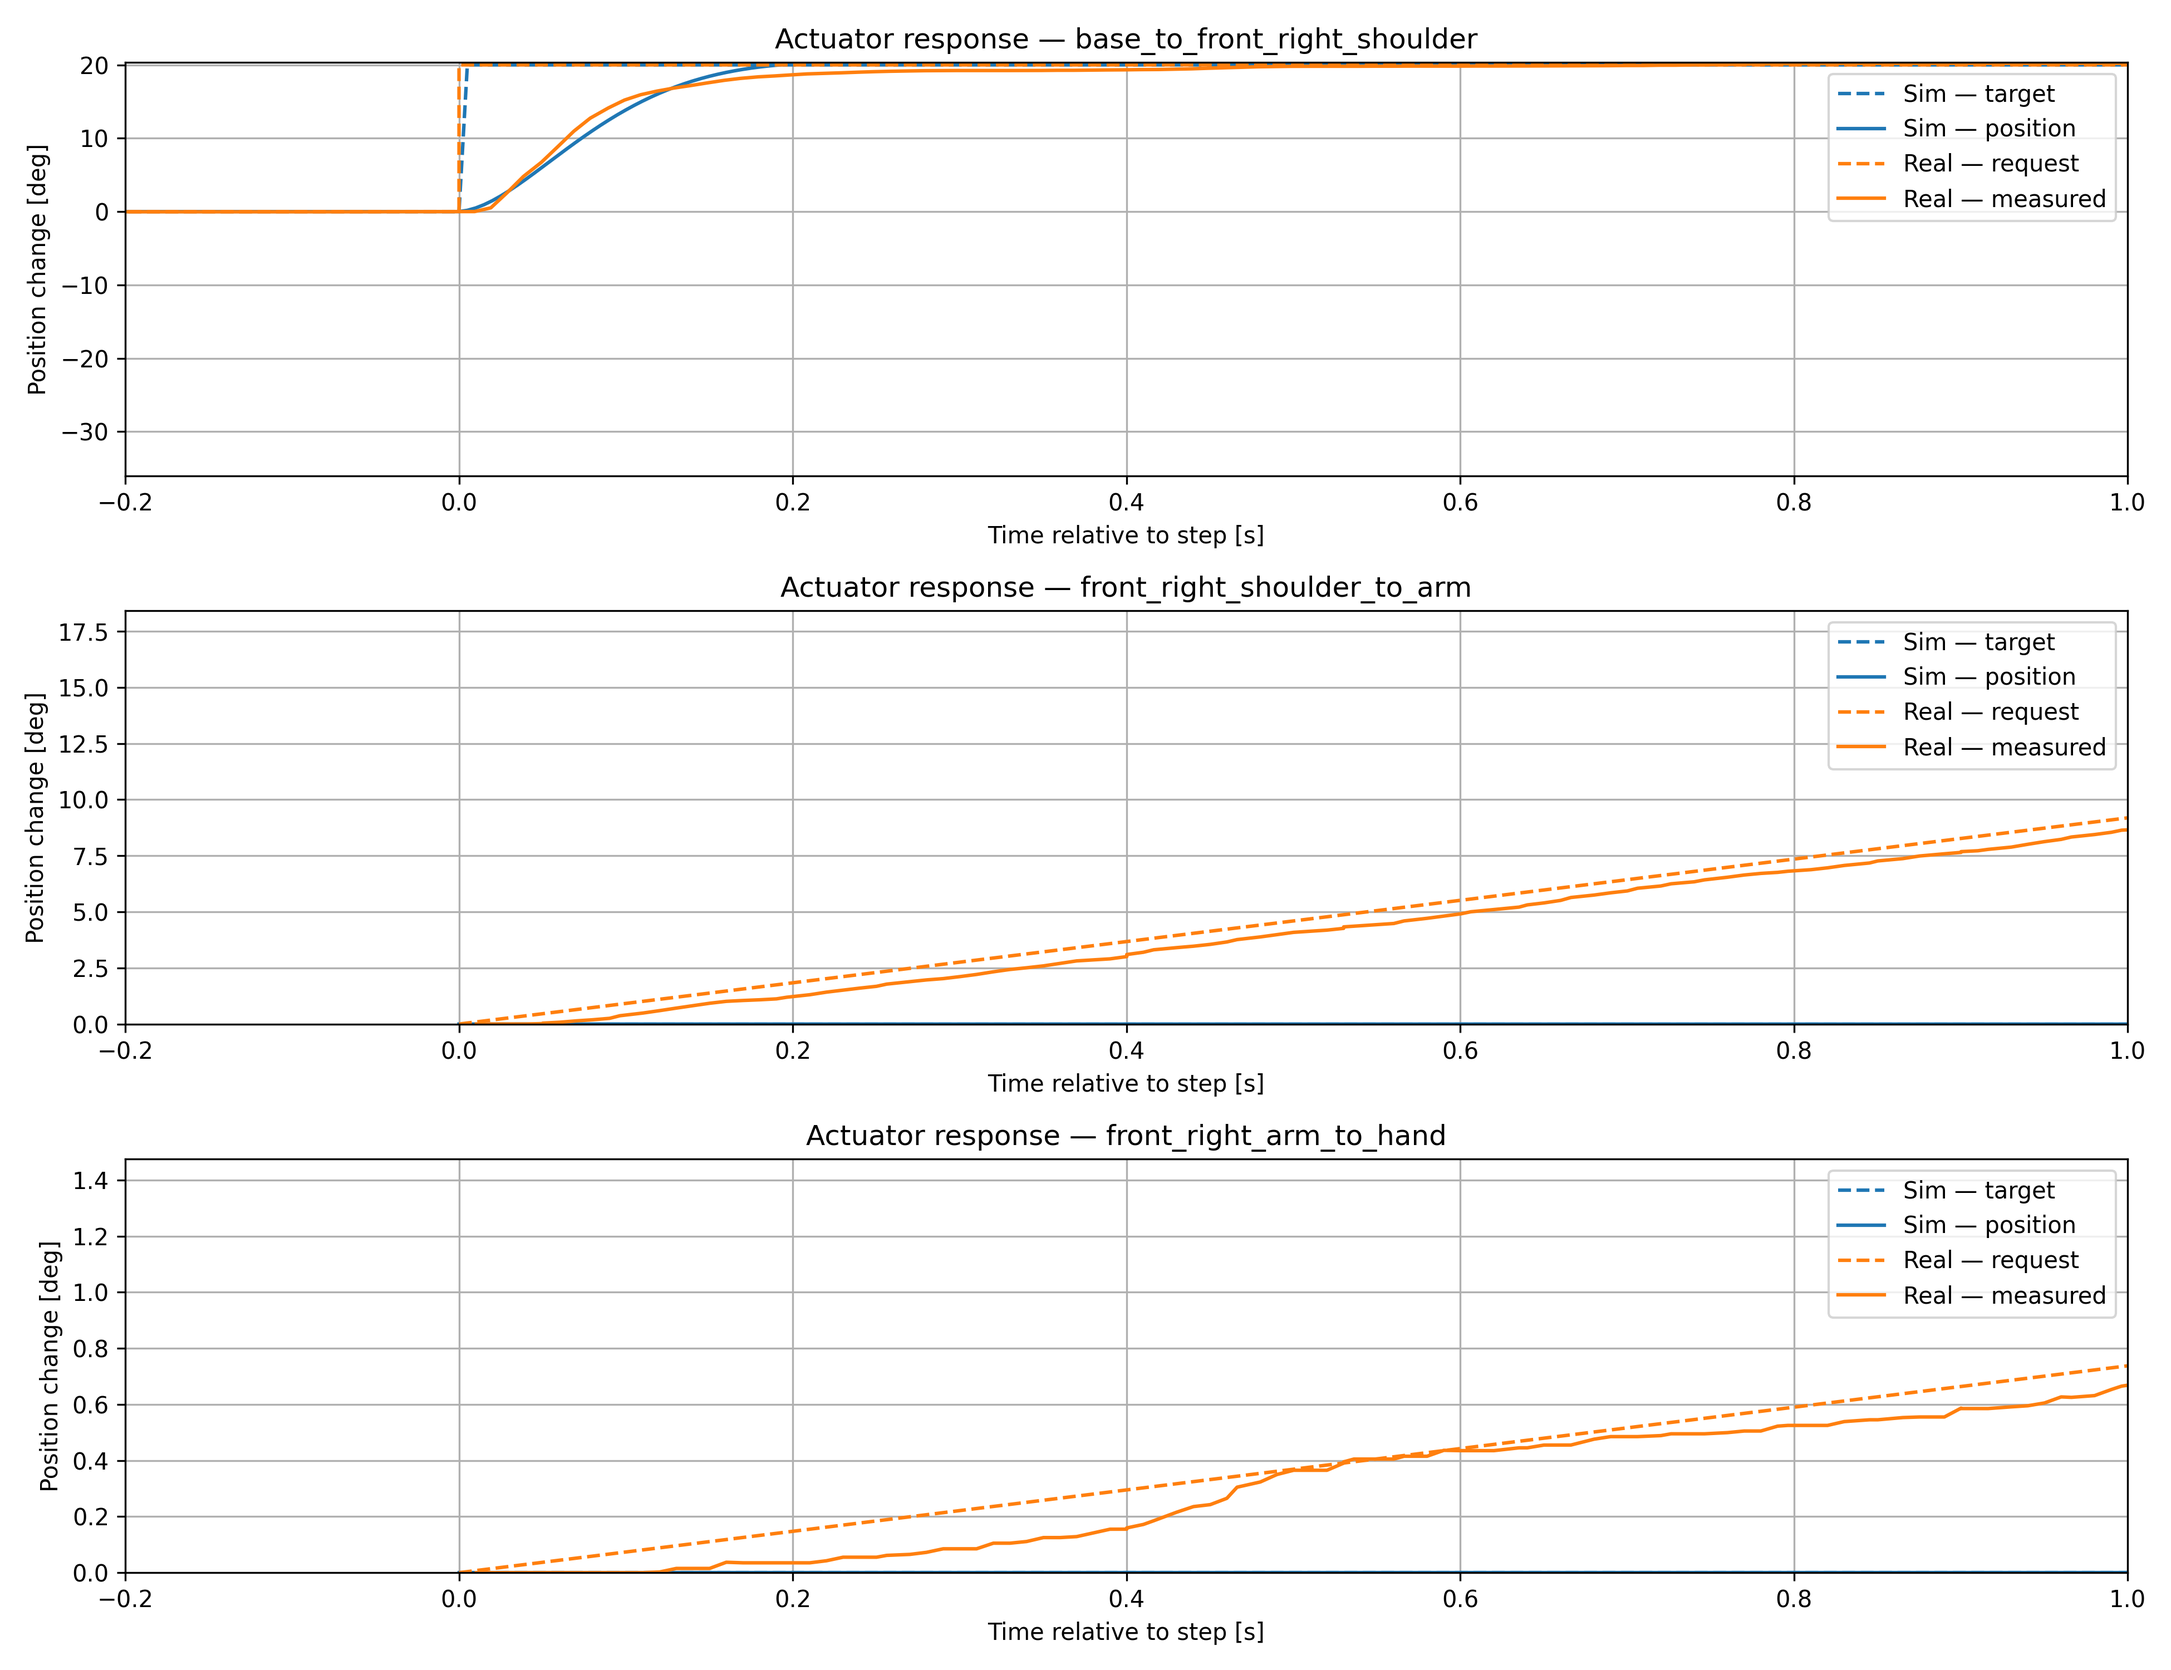
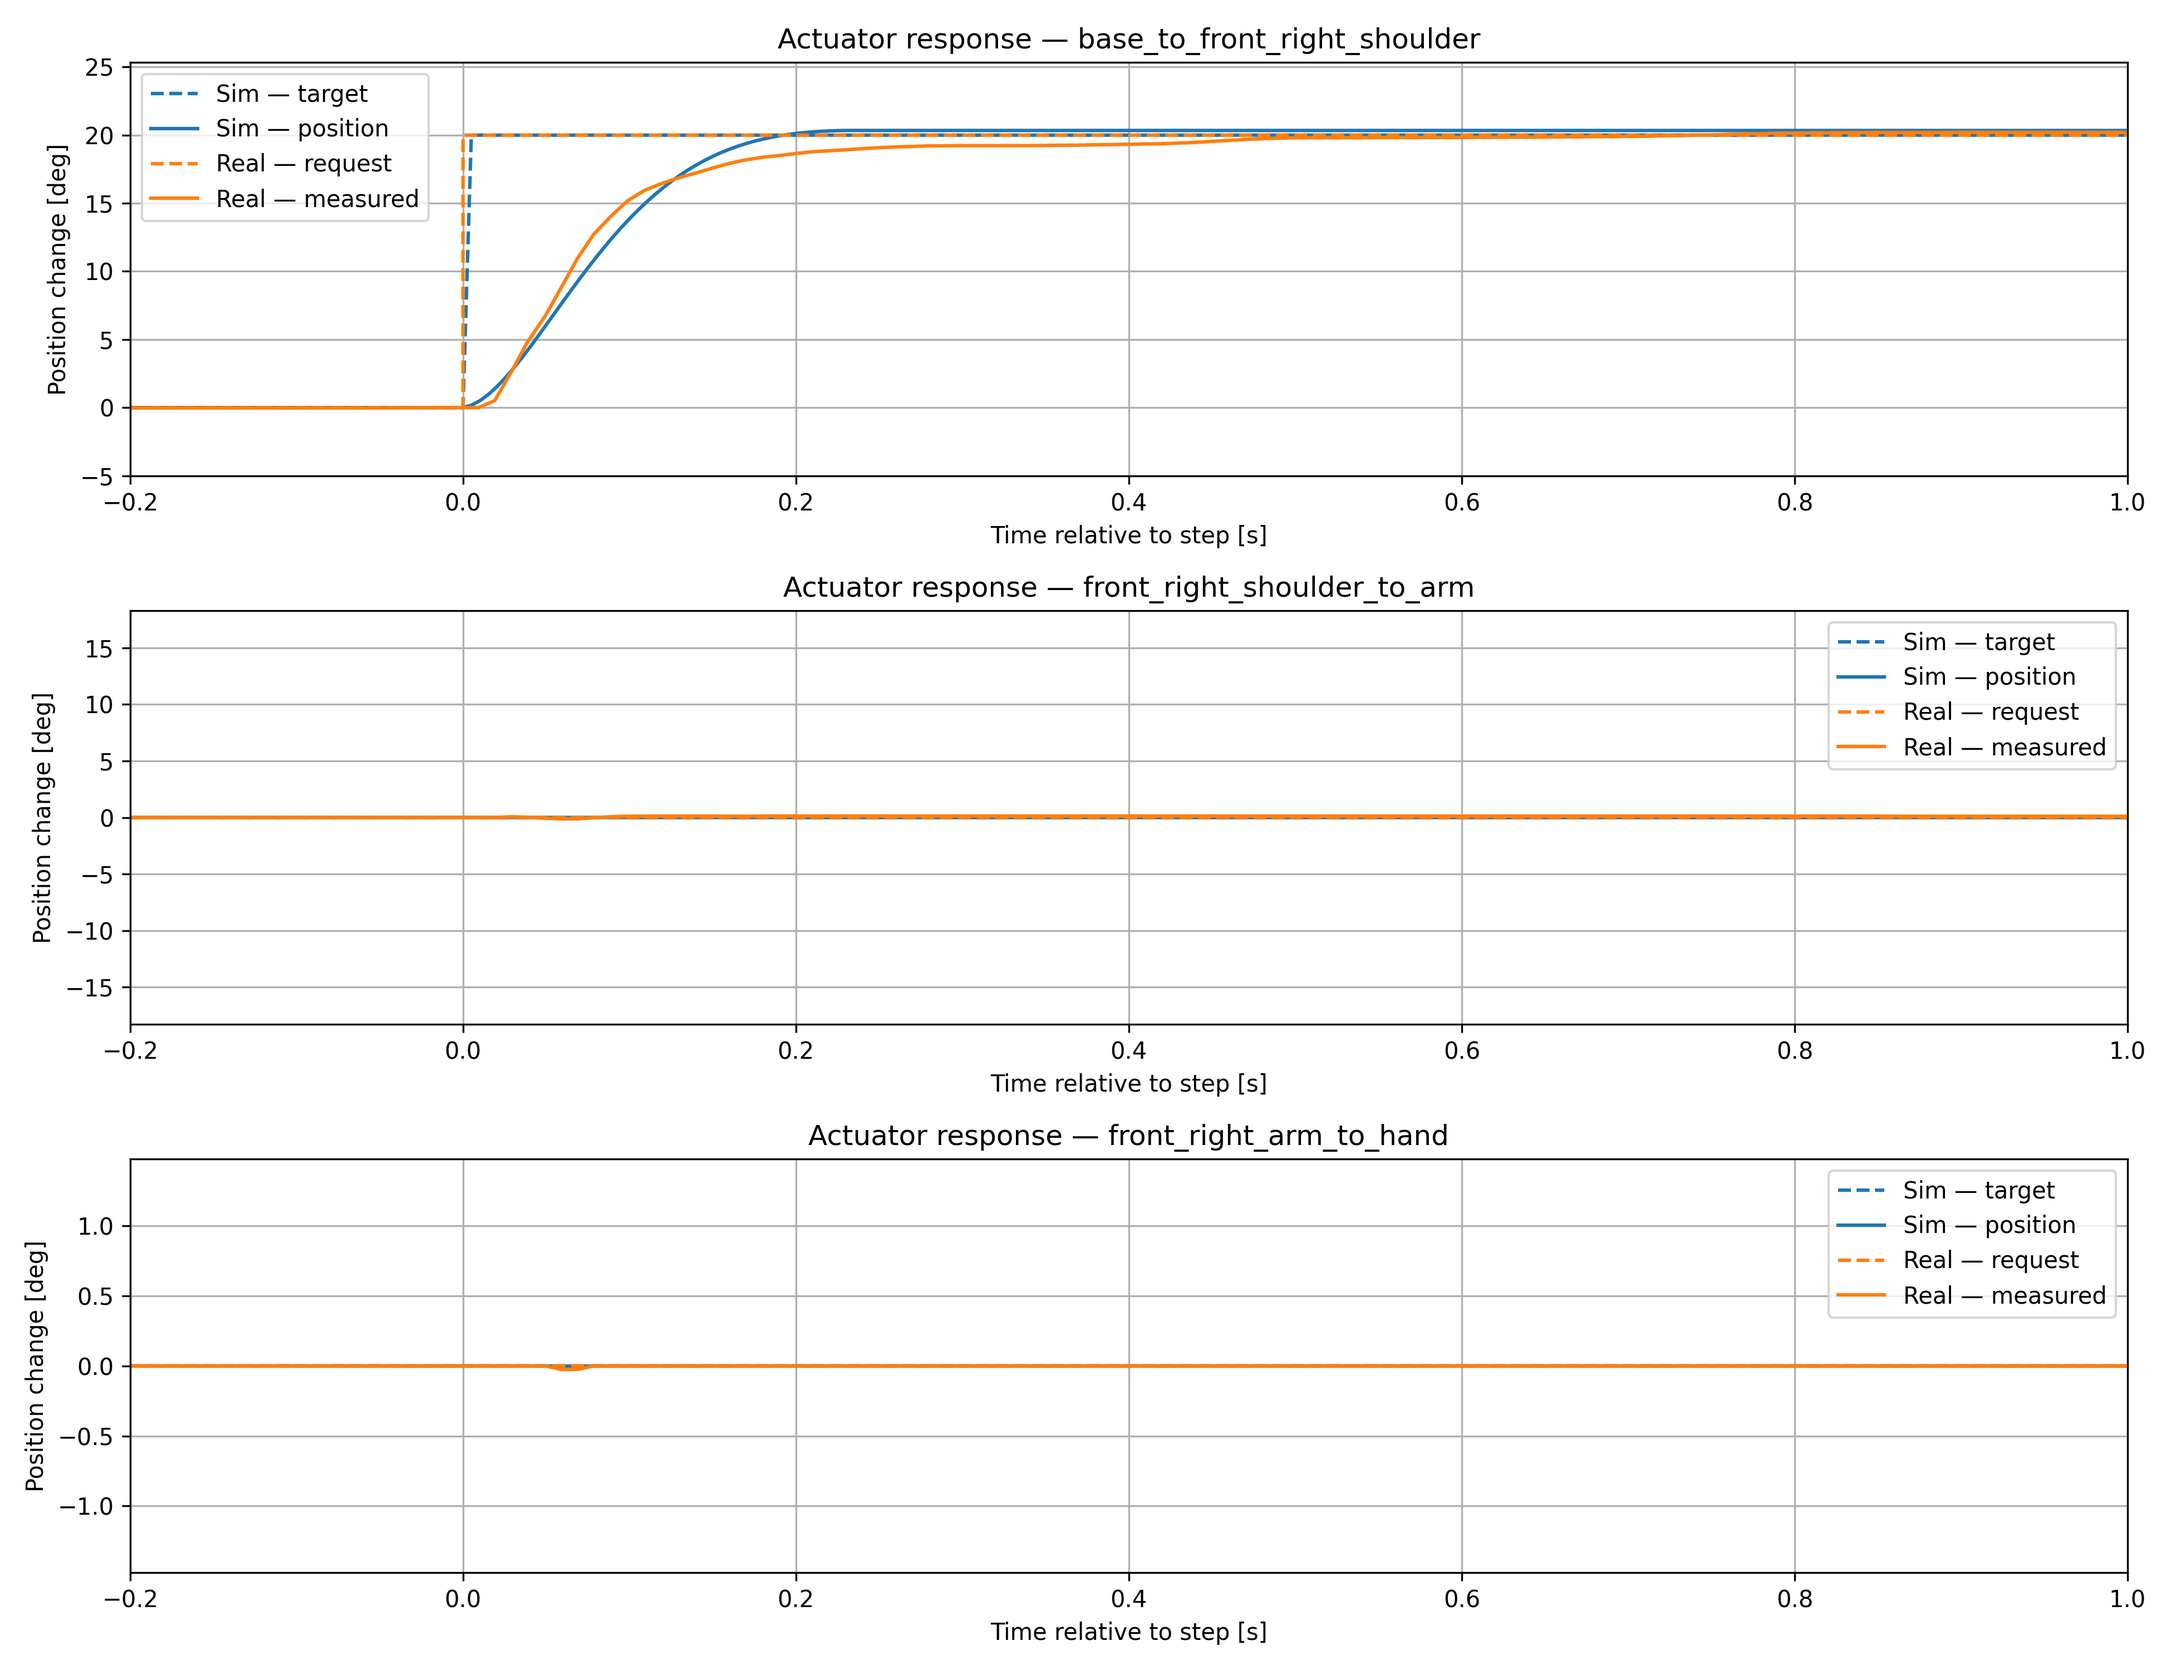
improved actuator response graphs

diff --git a/scripts/rsl_rl/plot_actuator_response_graphs.py b/scripts/rsl_rl/plot_actuator_response_graphs.py
@@ -14,6 +14,24 @@ JOINT_MAP = [
 ]
 
 
+def center_ylim_on_zero(ax):
+    ymin, ymax = ax.get_ylim()
+    bound = max(abs(ymin), abs(ymax))
+    ax.set_ylim(-bound, bound)
+
+
+def set_ylim_to_curves(ax, series, xlim, margin=0.0):
+    """Set ylim to the actual min/max the curves take within the visible x-range."""
+    xmin, xmax = xlim
+    values = []
+    for x, y in series:
+        mask = (x >= xmin) & (x <= xmax)
+        if np.any(mask):
+            values.append(y[mask])
+    ymin, ymax = np.concatenate(values).min(), np.concatenate(values).max()
+    ax.set_ylim(ymin - margin, ymax + margin)
+
+
 def find_step_index(values: np.ndarray, threshold_frac: float = 0.1) -> int:
     """Return the first index where the signal changes abruptly (step onset)."""
     diffs = np.abs(np.diff(values))
@@ -23,24 +41,28 @@ def find_step_index(values: np.ndarray, threshold_frac: float = 0.1) -> int:
     return int(candidates[0]) if len(candidates) > 0 else 0
 
 
-def load_sim(sim_joint: str, sim_joint_graph):
+def load_sim(sim_joint: str, sim_joint_graph, t0: float | None = None):
     df = pd.read_csv(f"actuator_response_results/sim_dyna/{sim_joint}/actuator_response_{sim_joint}.csv")
     df = df[df["joint"] == sim_joint_graph].reset_index(drop=True)
 
+    time = df["time"].to_numpy(dtype=float)
     targets = df["joint_pos_target"].to_numpy(dtype=float)
-    step_idx = find_step_index(targets) # First sample where joint_pos_target changes from initial
-    t0 = df["time"].iloc[step_idx]
+
+    if t0 is None:
+        step_idx = find_step_index(targets) # First sample where joint_pos_target changes from initial
+        t0 = time[step_idx]
+    step_idx = int(np.argmin(np.abs(time - t0)))
     pos0 = df["joint_pos"].iloc[step_idx]
     target0 = targets[step_idx]
 
     return {
-        "time":   df["time"].to_numpy(dtype=float) - t0,
+        "time":   time - t0,
         "pos":    np.rad2deg(df["joint_pos"].to_numpy(dtype=float) - pos0),
         "target": np.rad2deg(targets - target0),
-    }
+    }, t0
 
 
-def load_real(real_key: str, csv_key: str):
+def load_real(real_key: str, csv_key: str, t0: float | None = None):
     df = pd.read_csv(f"actuator_response_results/real_dyna/log_step_curve_{csv_key}.csv")
 
     req_df  = df[["timestamp_request",  f"{real_key}_request"]].dropna()
@@ -52,9 +74,11 @@ def load_real(real_key: str, csv_key: str):
     t_meas   = meas_df["timestamp_measured"].to_numpy(dtype=float)
     meas_deg = meas_df[f"{real_key}_measured"].to_numpy(dtype=float)
 
-    step_idx = find_step_index(req_deg)
-    t0 = t_req[step_idx]
-    req0_deg = req_deg[step_idx]
+    if t0 is None:
+        step_idx = find_step_index(req_deg)
+        t0 = t_req[step_idx]
+    req_step_idx = int(np.argmin(np.abs(t_req - t0)))
+    req0_deg = req_deg[req_step_idx]
     meas_step_idx = int(np.argmin(np.abs(t_meas - t0)))
     meas0_deg = meas_deg[meas_step_idx]
 
@@ -63,15 +87,15 @@ def load_real(real_key: str, csv_key: str):
         "time_meas": t_meas - t0,
         "req": req_deg  - req0_deg,
         "meas": meas_deg - meas0_deg,
-    }
+    }, t0
 
 
 def plot_joint_position(sim_joint: str, real_key: str, csv_key: str):
     
     fig, axs = plt.subplots(3, 1,figsize=(13, 10))
     # Moved joint
-    sim  = load_sim(sim_joint, sim_joint)
-    real = load_real(real_key, csv_key)
+    sim,  t0_sim  = load_sim(sim_joint, sim_joint)
+    real, t0_real = load_real(real_key, csv_key)
     axs[0].plot(sim["time"], sim["target"], color="tab:blue",   linestyle="--", label="Sim — target")
     axs[0].plot(sim["time"], sim["pos"],    color="tab:blue",                   label="Sim — position")
     axs[0].plot(real["time_req"],  real["req"],  color="tab:orange", linestyle="--", label="Real — request")
@@ -82,6 +106,12 @@ def plot_joint_position(sim_joint: str, real_key: str, csv_key: str):
     axs[0].set_title(f"Actuator response — {sim_joint}")
     axs[0].autoscale(tight=True)
     axs[0].set_xlim(-0.2, 1)
+    set_ylim_to_curves(axs[0], [
+        (sim["time"],      sim["target"]),
+        (sim["time"],      sim["pos"]),
+        (real["time_req"],  real["req"]),
+        (real["time_meas"], real["meas"]),
+    ], (-0.2, 1), margin=5.0)
     axs[0].legend()
     axs[0].grid(True)
 
@@ -89,8 +119,8 @@ def plot_joint_position(sim_joint: str, real_key: str, csv_key: str):
     filtered_joint_map = [joint for joint in JOINT_MAP if sim_joint not in joint]
     i = 1
     for other_sim_joint, other_real_key, _ in filtered_joint_map:
-        sim  = load_sim(sim_joint, other_sim_joint)
-        real = load_real(other_real_key, csv_key)
+        sim,  _ = load_sim(sim_joint, other_sim_joint, t0=t0_sim)
+        real, _ = load_real(other_real_key, csv_key, t0=t0_real)
         axs[i].plot(sim["time"], sim["target"], color="tab:blue",   linestyle="--", label="Sim — target")
         axs[i].plot(sim["time"], sim["pos"],    color="tab:blue",                   label="Sim — position")
         axs[i].plot(real["time_req"],  real["req"],  color="tab:orange", linestyle="--", label="Real — request")
@@ -101,6 +131,7 @@ def plot_joint_position(sim_joint: str, real_key: str, csv_key: str):
         axs[i].set_title(f"Actuator response — {other_sim_joint}")
         axs[i].autoscale(tight=True)
         axs[i].set_xlim(-0.2, 1)
+        center_ylim_on_zero(axs[i])
         axs[i].legend()
         axs[i].grid(True)
         i += 1
